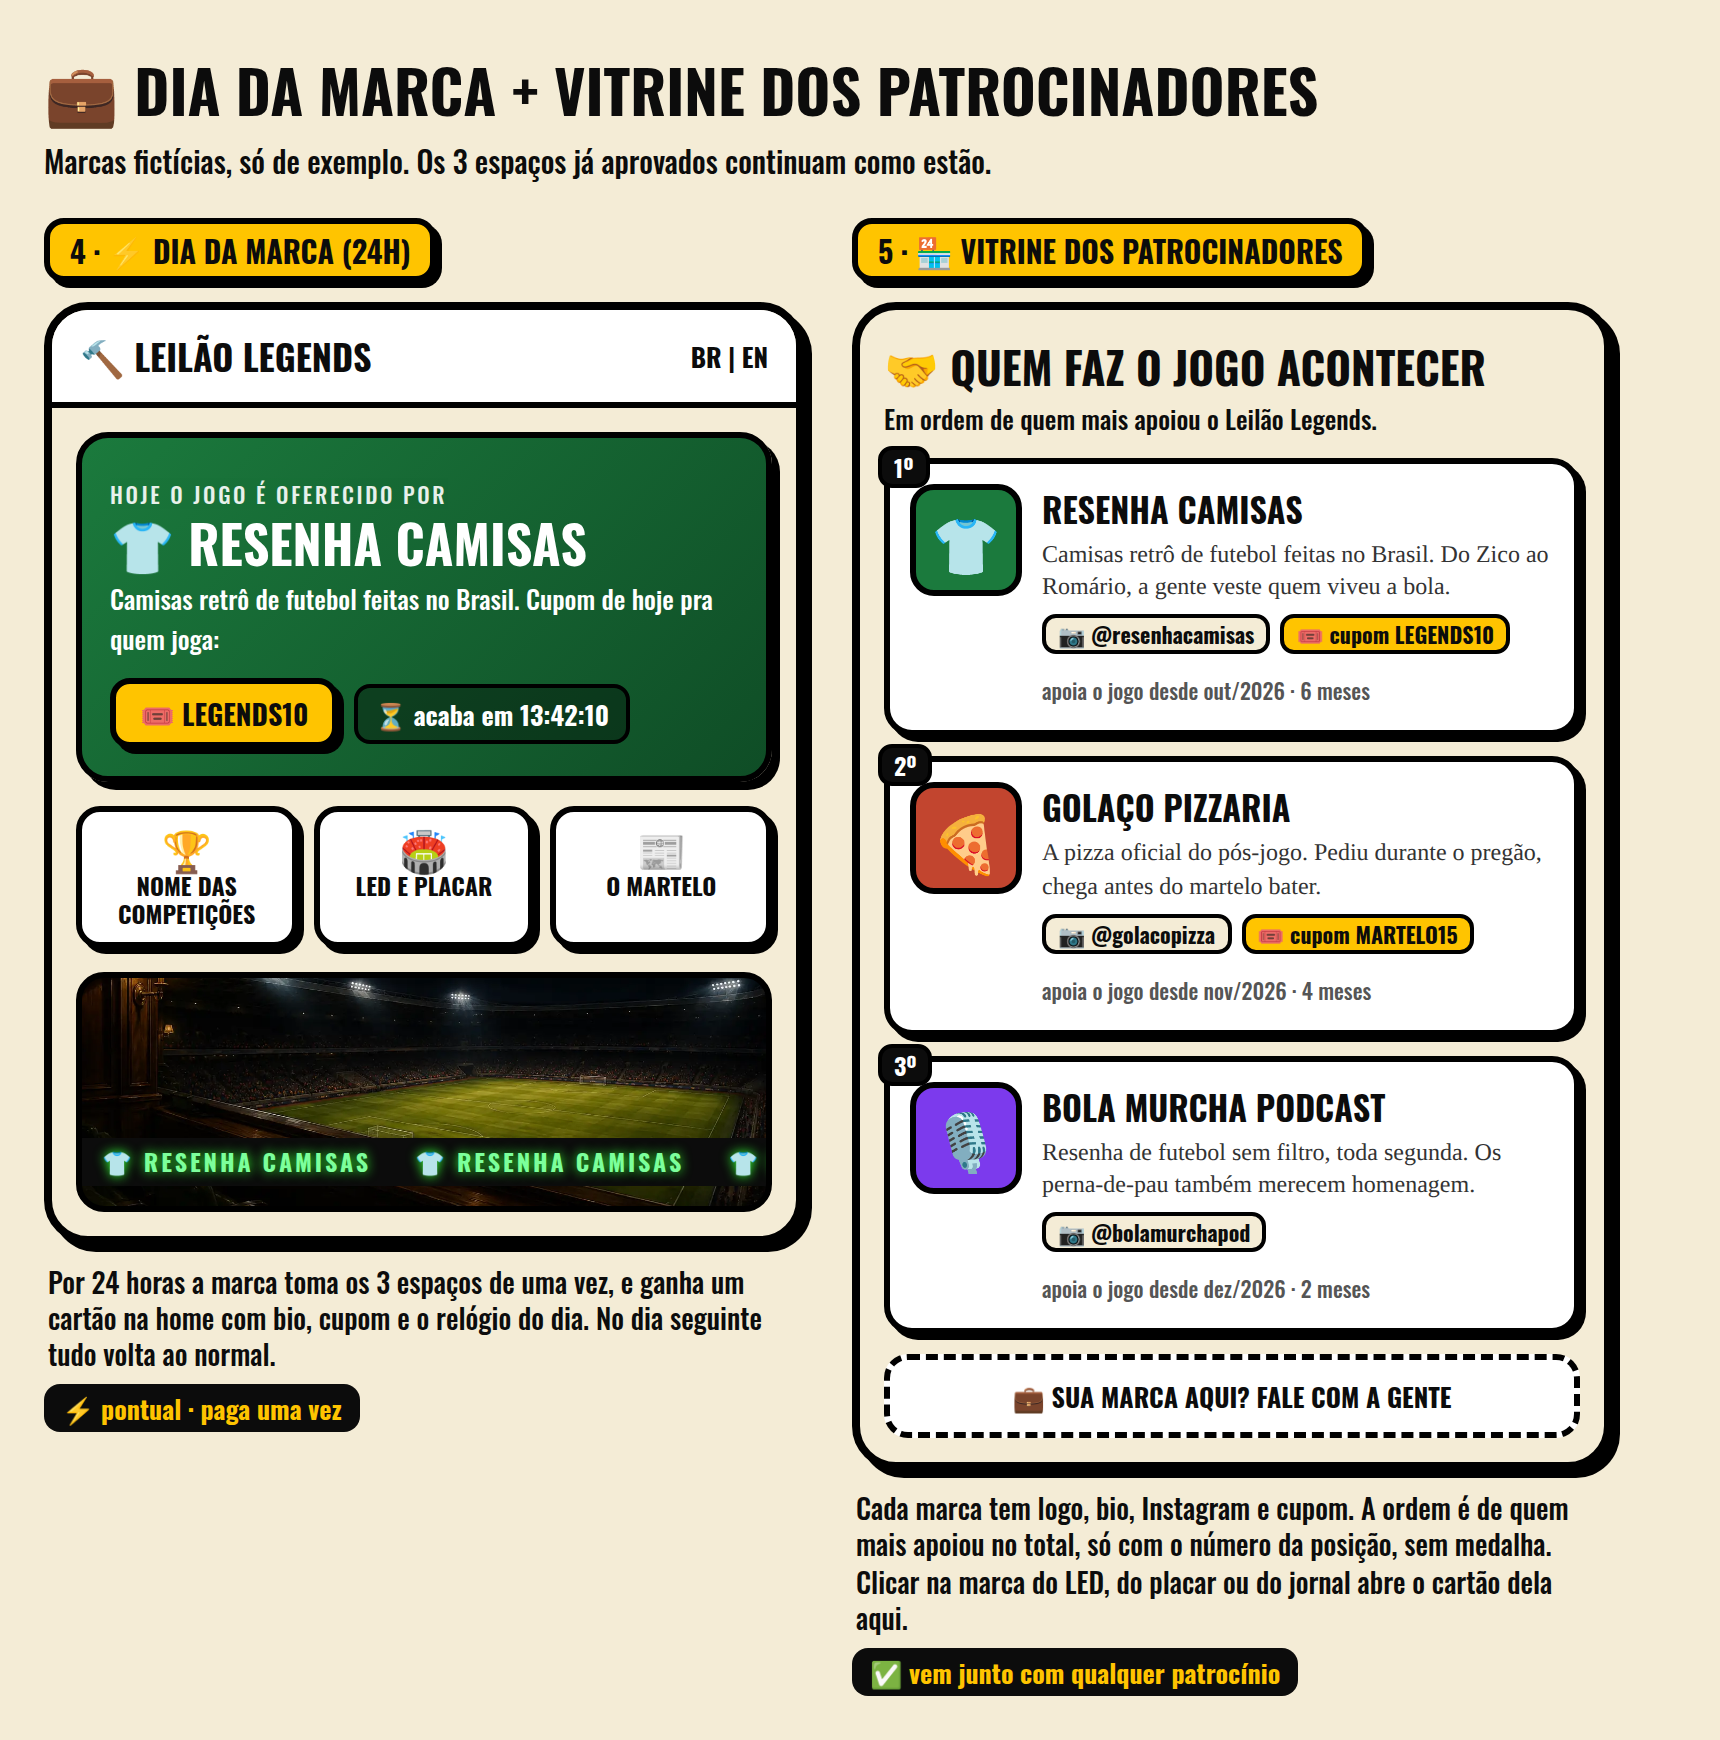
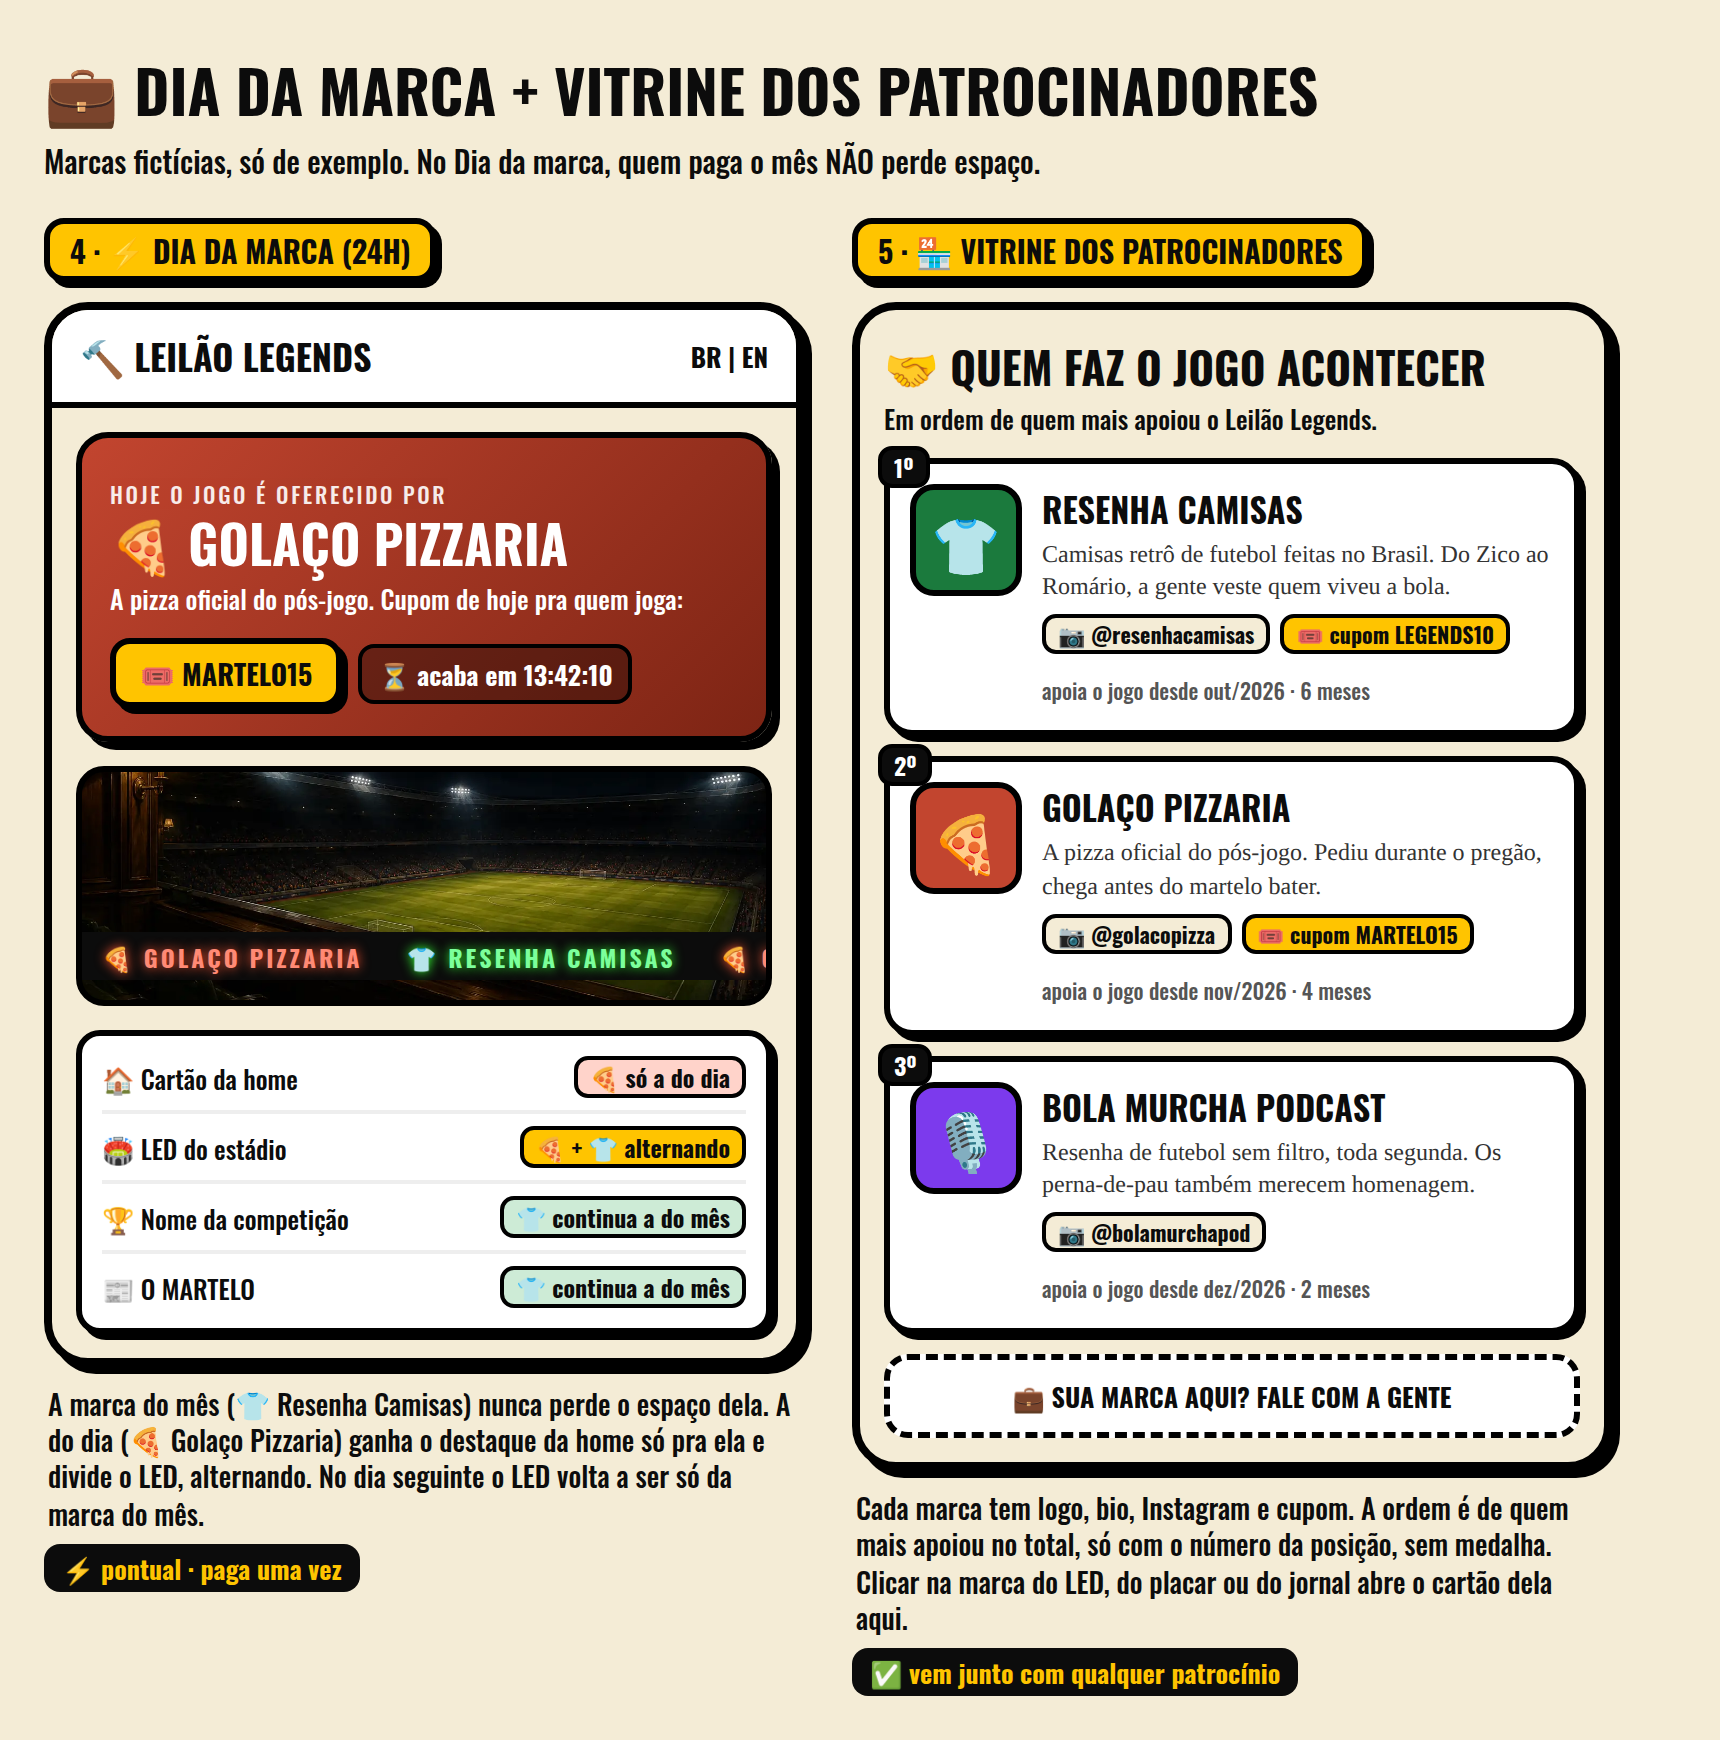
Mockup do Dia da marca: patrocinador mensal não perde espaço (LED alterna, competição e jornal seguem com ele)
Claude-Session: https://claude.ai/code/session_018Ap1zPCMVL9XeZJN3u93ZA

Changed region(s): [[0.0, 0.2483, 0.493, 0.931], [0.2465, 0.0621, 0.6163, 0.1241]]

diff --git a/docs/pendencias.md b/docs/pendencias.md
@@ -5,6 +5,7 @@
 - Diego gostou dos 3 + **⚡ Dia da marca** (pontual: 24h tomando os 3 espaços + cartão na home com bio/cupom/relógio) e da
   **🏪 Vitrine dos patrocinadores** (logo, bio, Instagram, cupom; ordem de quem mais apoiou, **SEM ouro/prata/bronze**, só o nº).
   Cobrança: ele está entre mensal, único e leilão — recomendei MENSAL fixo (1º mês mais barato; leilão só se tiver fila).
+  Dia da marca NÃO tira o mensal: home só da marca do dia · LED alternando as duas · competição e O MARTELO seguem com a do mês.
   Mockup 2: `node scripts/mockup-patrocinio-2.mjs` → `scripts/mockups/patrocinio-2.png`.
 
 ## 🛒 Loja: FICHA EXTRA DE CARREIRA — R$ 9,90 (16/10) — ⏳ A FAZER
